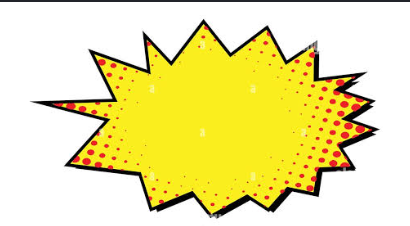
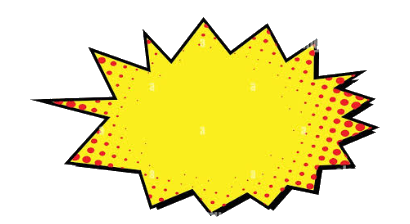
fix: remove floating window placeholders and render transparent vector comic burst without bouncing

diff --git a/Engineering-Labs/frontend/src/pages/Home.jsx b/Engineering-Labs/frontend/src/pages/Home.jsx
@@ -280,26 +280,8 @@ function Home() {
             >
               {/* Box 1: Customer Profile */}
               {windows.account.isOpen && !windows.account.isMinimized && (
-                <>
-                  {windows.account.isPoppedOut && (
-                    <div className="border-2 border-dashed border-[#b8860b] bg-[#fffbf0]/75 p-3 text-center font-pixel-body text-[10px] text-[#5c2e00] flex items-center justify-between shadow-[2px_2px_0px_rgba(0,0,0,0.06)]">
-                      <div className="flex items-center gap-1.5">
-                        <span>👤</span>
-                        <span className="font-bold">Customer Account is floating</span>
-                      </div>
-                      <button
-                        type="button"
-                        onClick={() => togglePopout("account")}
-                        className="pixel-btn text-[7px] py-1 px-2 bg-[#ffd571] hover:bg-[#ffc542]"
-                        title="Dock back to grid"
-                      >
-                        DOCK ❐
-                      </button>
-                    </div>
-                  )}
-
-                  <div
-                    className={`pixel-box ${
+                <div
+                  className={`pixel-box ${
                       windows.account.isPoppedOut
                         ? "shadow-[8px_8px_0px_#000000] border-3 border-[#2a1502]"
                         : ""
@@ -408,31 +390,12 @@ function Home() {
                       </div>
                     </div>
                   </div>
-                </>
               )}
 
               {/* Box 2: Store Policies & Guarantee */}
               {windows.guarantee.isOpen && !windows.guarantee.isMinimized && (
-                <>
-                  {windows.guarantee.isPoppedOut && (
-                    <div className="border-2 border-dashed border-[#b8860b] bg-[#fffbf0]/75 p-3 text-center font-pixel-body text-[10px] text-[#5c2e00] flex items-center justify-between shadow-[2px_2px_0px_rgba(0,0,0,0.06)]">
-                      <div className="flex items-center gap-1.5">
-                        <span>📜</span>
-                        <span className="font-bold">Store Guarantee is floating</span>
-                      </div>
-                      <button
-                        type="button"
-                        onClick={() => togglePopout("guarantee")}
-                        className="pixel-btn text-[7px] py-1 px-2 bg-[#ffd571] hover:bg-[#ffc542]"
-                        title="Dock back to grid"
-                      >
-                        DOCK ❐
-                      </button>
-                    </div>
-                  )}
-
-                  <div
-                    className={`pixel-box ${
+                <div
+                  className={`pixel-box ${
                       windows.guarantee.isPoppedOut
                         ? "shadow-[8px_8px_0px_#000000] border-3 border-[#2a1502]"
                         : ""
@@ -524,7 +487,6 @@ function Home() {
                       </p>
                     </div>
                   </div>
-                </>
               )}
 
             </div>
@@ -540,26 +502,8 @@ function Home() {
               
               {/* Box 1: Featured Merch / Quick Portal */}
               {windows.categories.isOpen && !windows.categories.isMinimized && (
-                <>
-                  {windows.categories.isPoppedOut && (
-                    <div className="border-2 border-dashed border-[#b8860b] bg-[#fffbf0]/75 p-3 text-center font-pixel-body text-[10px] text-[#5c2e00] flex items-center justify-between shadow-[2px_2px_0px_rgba(0,0,0,0.06)]">
-                      <div className="flex items-center gap-1.5">
-                        <span>🛍</span>
-                        <span className="font-bold">Product Categories is floating</span>
-                      </div>
-                      <button
-                        type="button"
-                        onClick={() => togglePopout("categories")}
-                        className="pixel-btn text-[7px] py-1 px-2 bg-[#ffd571] hover:bg-[#ffc542]"
-                        title="Dock back to grid"
-                      >
-                        DOCK ❐
-                      </button>
-                    </div>
-                  )}
-
-                  <div
-                    className={`pixel-box ${
+                <div
+                  className={`pixel-box ${
                       windows.categories.isPoppedOut
                         ? "shadow-[8px_8px_0px_#000000] border-3 border-[#2a1502]"
                         : ""
@@ -681,31 +625,12 @@ function Home() {
                       </div>
                     </div>
                   </div>
-                </>
               )}
 
               {/* Box 2: Mascot Companion Box */}
               {windows.assistant.isOpen && !windows.assistant.isMinimized && (
-                <>
-                  {windows.assistant.isPoppedOut && (
-                    <div className="border-2 border-dashed border-[#b8860b] bg-[#fffbf0]/75 p-3 text-center font-pixel-body text-[10px] text-[#5c2e00] flex items-center justify-between shadow-[2px_2px_0px_rgba(0,0,0,0.06)]">
-                      <div className="flex items-center gap-1.5">
-                        <span>🐼</span>
-                        <span className="font-bold">Shopping Assistant is floating</span>
-                      </div>
-                      <button
-                        type="button"
-                        onClick={() => togglePopout("assistant")}
-                        className="pixel-btn text-[7px] py-1 px-2 bg-[#ffd571] hover:bg-[#ffc542]"
-                        title="Dock back to grid"
-                      >
-                        DOCK ❐
-                      </button>
-                    </div>
-                  )}
-
-                  <div
-                    className={`pixel-box ${
+                <div
+                  className={`pixel-box ${
                       windows.assistant.isPoppedOut
                         ? "shadow-[8px_8px_0px_#000000] border-3 border-[#2a1502]"
                         : ""
@@ -812,7 +737,6 @@ function Home() {
                       </div>
                     </div>
                   </div>
-                </>
               )}
 
             </div>
@@ -821,39 +745,92 @@ function Home() {
         </div>
       </main>
 
-      {/* Comic Speech Bubble Alert Notification */}
+      {/* Comic Action Starburst Alert Notification (Custom SVG, 100% Transparent Background, No Bouncing) */}
       {showComicBubble && (
-        <div className="fixed bottom-14 sm:bottom-16 left-2 sm:left-4 z-50 select-none filter drop-shadow-[6px_6px_0px_#000000] animate-bounce">
+        <div className="fixed bottom-14 sm:bottom-16 left-2 sm:left-6 z-50 select-none animate-bubble-pop">
           <div
-            className="relative cursor-pointer group w-[310px] sm:w-[350px] transition-transform hover:scale-105 active:scale-95"
+            className="relative cursor-pointer group w-[320px] sm:w-[370px] transition-transform hover:scale-[1.02] active:scale-[0.98]"
             onClick={() => {
               setStartMenuOpen(true);
               setShowComicBubble(false);
             }}
             title="Click to open Start Menu"
           >
-            <img
-              src="/assets/comic_bubble.png"
-              alt="Comic Notification"
-              className="w-full h-auto object-contain pointer-events-none"
-            />
-            {/* Centered text in Comic Bubble */}
-            <div className="absolute inset-0 flex flex-col items-center justify-center px-8 py-6 text-center pointer-events-none">
-              <span className="font-pixel-title text-[9px] sm:text-[10px] text-[#2a1400] leading-snug uppercase font-black tracking-tight drop-shadow-[1px_1px_0px_#ffeaa7]">
-                closed windows can be accessed from the start menu!!
+            {/* 100% Vector Comic Starburst Rendered in Code (Fully Transparent Outside) */}
+            <svg
+              viewBox="0 0 410 230"
+              className="w-full h-auto overflow-visible filter drop-shadow-[6px_6px_0px_#000000]"
+            >
+              <defs>
+                <pattern
+                  id="comicHalftone"
+                  x="0"
+                  y="0"
+                  width="10"
+                  height="10"
+                  patternUnits="userSpaceOnUse"
+                >
+                  <circle cx="5" cy="5" r="2.4" fill="#e63946" />
+                </pattern>
+                <mask id="burstMask">
+                  <polygon
+                    points="356,115 374,131 344,149 355,168 322,169 319,190 290,190 275,208 247,199 215,215 193,195 149,205 139,176 64,163 103,120 50,110 95,80 125,85 145,45 180,80 205,30 235,75 265,40 285,70 315,60 320,85 355,90"
+                    fill="#ffffff"
+                  />
+                </mask>
+              </defs>
+
+              {/* Solid Black Offset Shadow */}
+              <polygon
+                points="360,119 378,135 348,153 359,172 326,173 323,194 294,194 279,212 251,203 219,219 197,199 153,209 143,180 68,167 107,124 54,114 99,84 129,89 149,49 184,84 209,34 239,79 269,44 289,74 319,64 324,89 359,94"
+                fill="#000000"
+              />
+
+              {/* Main Comic Starburst */}
+              <polygon
+                points="356,115 374,131 344,149 355,168 322,169 319,190 290,190 275,208 247,199 215,215 193,195 149,205 139,176 64,163 103,120 50,110 95,80 125,85 145,45 180,80 205,30 235,75 265,40 285,70 315,60 320,85 355,90"
+                fill="#ffdd00"
+                stroke="#000000"
+                strokeWidth="4.5"
+                strokeLinejoin="round"
+              />
+
+              {/* Ben-Day Halftone Dots Around Outer Spikes */}
+              <g mask="url(#burstMask)">
+                <ellipse cx="85" cy="115" rx="55" ry="60" fill="url(#comicHalftone)" opacity="0.9" />
+                <ellipse cx="330" cy="120" rx="50" ry="60" fill="url(#comicHalftone)" opacity="0.9" />
+                <ellipse cx="215" cy="188" rx="60" ry="25" fill="url(#comicHalftone)" opacity="0.8" />
+                {/* Solid Yellow Core to keep text crisp and clear */}
+                <ellipse cx="212" cy="116" rx="90" ry="46" fill="#ffdd00" />
+              </g>
+
+              {/* Inner Inking Accent */}
+              <polygon
+                points="356,115 374,131 344,149 355,168 322,169 319,190 290,190 275,208 247,199 215,215 193,195 149,205 139,176 64,163 103,120 50,110 95,80 125,85 145,45 180,80 205,30 235,75 265,40 285,70 315,60 320,85 355,90"
+                fill="none"
+                stroke="#000000"
+                strokeWidth="1.5"
+              />
+            </svg>
+
+            {/* Centered Text inside the solid yellow core */}
+            <div className="absolute inset-0 flex flex-col items-center justify-center px-10 py-5 text-center pointer-events-none">
+              <span className="font-pixel-title text-[9px] sm:text-[10px] text-[#2b1802] leading-snug uppercase font-black tracking-tight drop-shadow-[1px_1px_0px_#ffffff] max-w-[200px]">
+                CLOSED WINDOWS CAN BE ACCESSED FROM THE START MENU!!
               </span>
-              <span className="text-[7px] font-pixel-body text-red-700 font-bold mt-1 bg-yellow-300/80 px-1 border border-black/40">
-                [OPEN START MENU ⛩]
+              <span className="text-[8px] font-pixel-body text-[#8b0000] font-bold mt-1.5 bg-[#ffffff]/90 px-2 py-0.5 border border-[#000000] shadow-[2px_2px_0px_#000000]">
+                OPEN START MENU ⛩
               </span>
             </div>
-            {/* Close button for comic bubble */}
+
+            {/* Comic Dismiss ✕ Button */}
             <button
               type="button"
               onClick={(e) => {
                 e.stopPropagation();
                 setShowComicBubble(false);
               }}
-              className="absolute top-2 right-4 pixel-mini-btn bg-white hover:bg-red-400 text-[8px] font-bold z-10 shadow-[1px_1px_0_#000]"
+              className="absolute top-1 right-7 bg-[#000000] text-[#ffffff] hover:bg-[#e63946] border border-[#ffffff] w-5 h-5 flex items-center justify-center text-[9px] font-bold z-10 shadow-[2px_2px_0px_rgba(0,0,0,0.6)] cursor-pointer"
               title="Dismiss"
             >
               ✕
